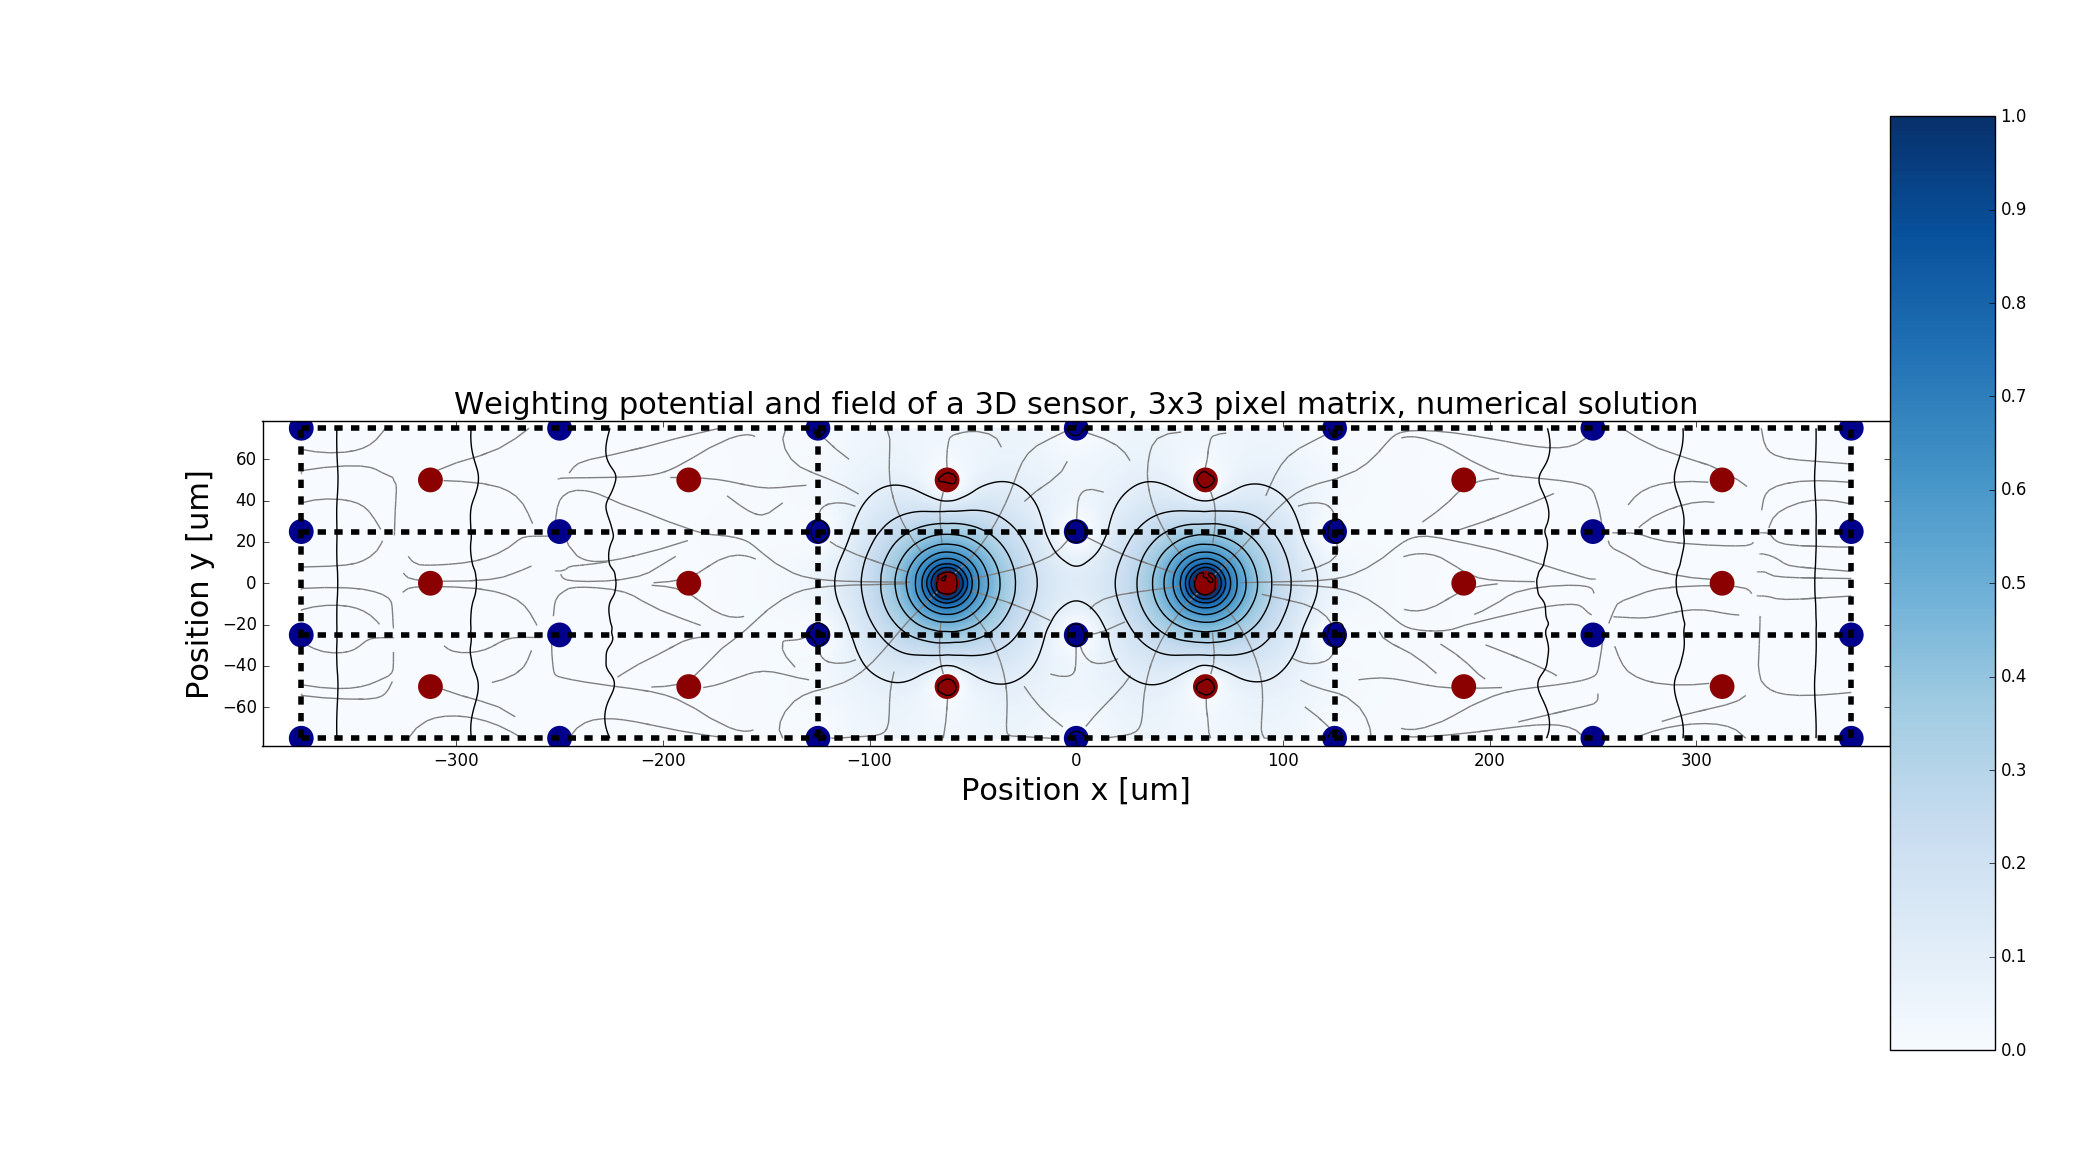
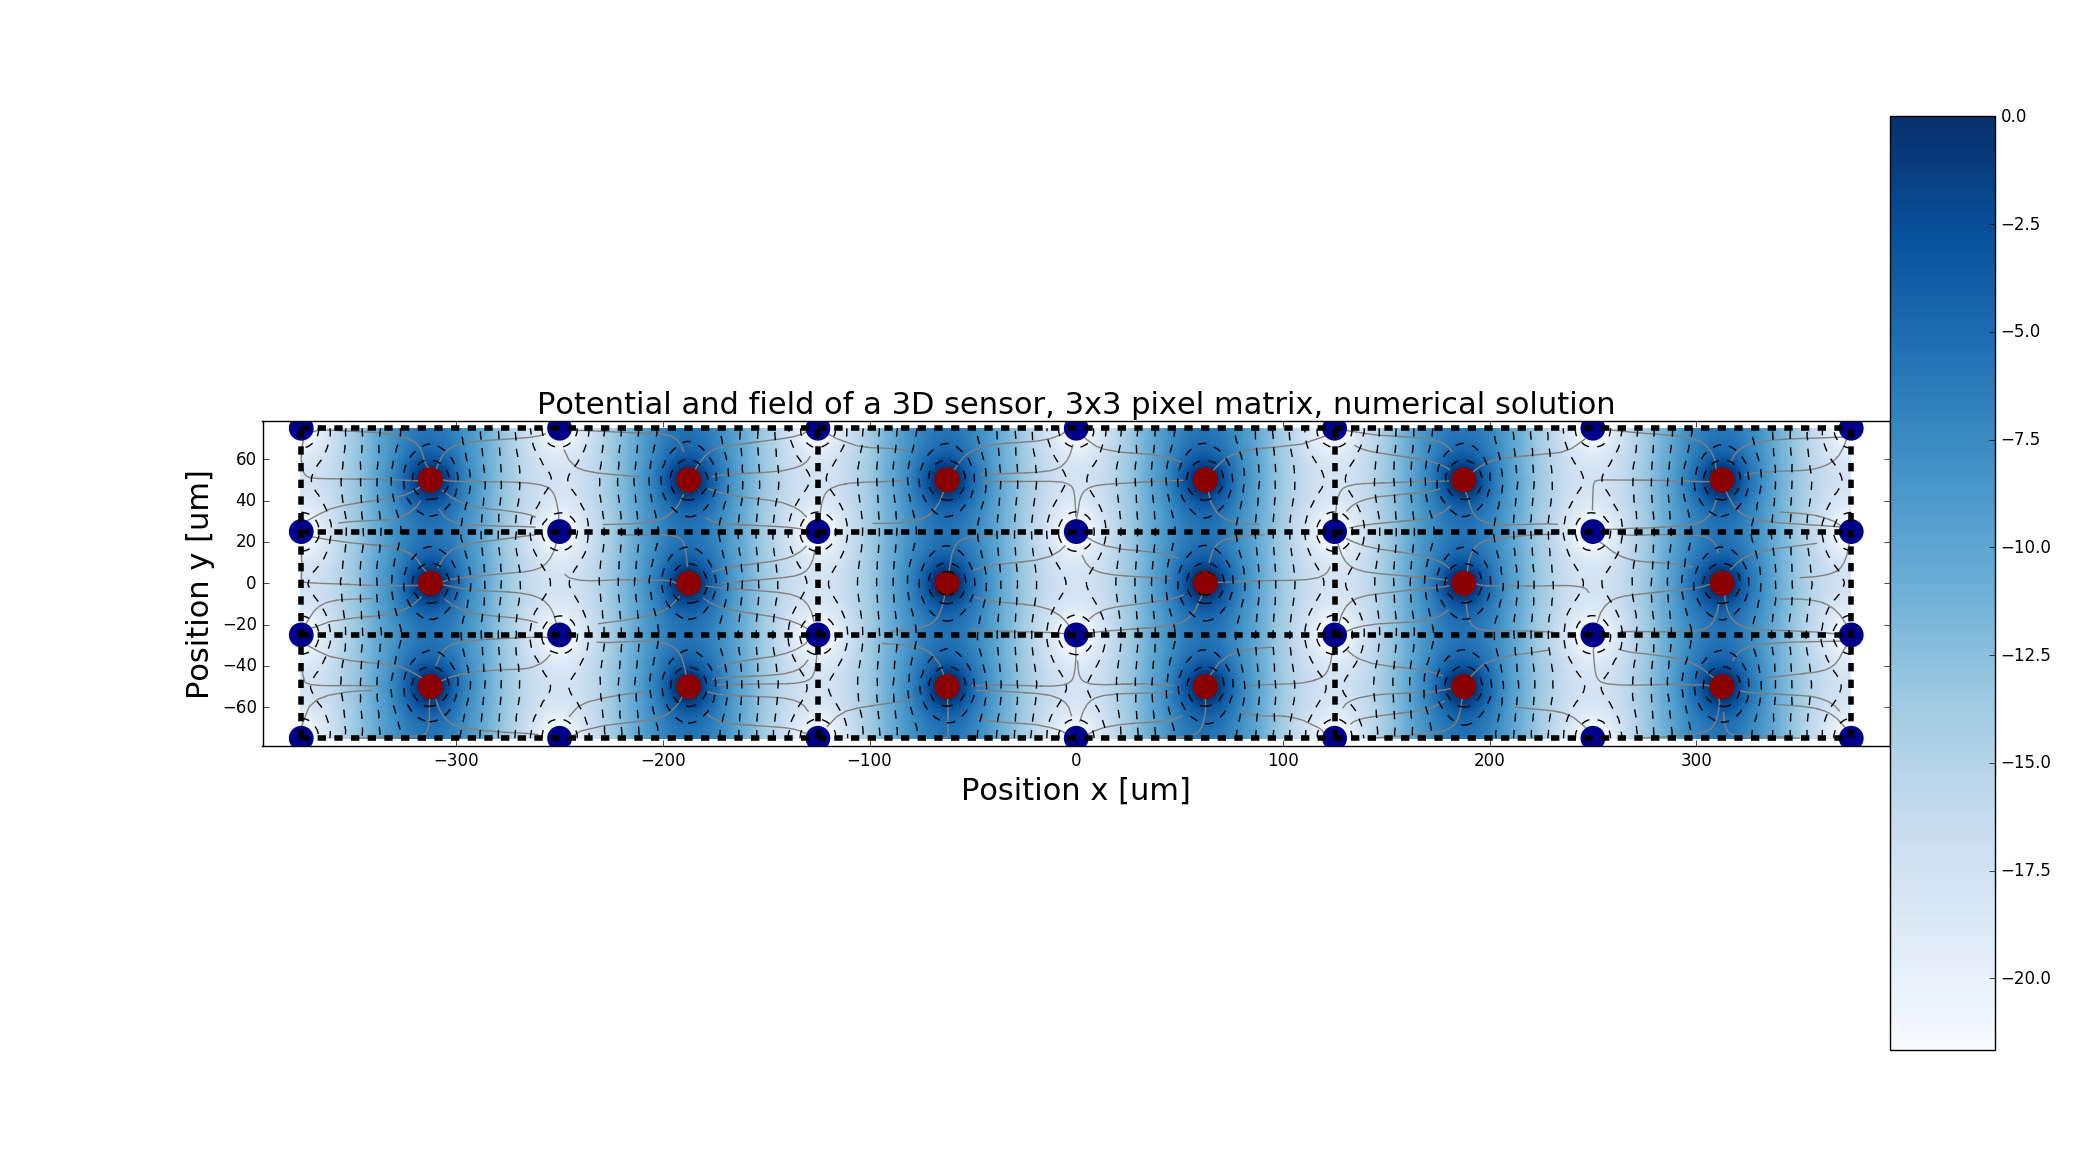
DOC

Changed region(s): [[0.1238, 0.3393, 0.8976, 0.6478], [0.9595, 0.5553, 0.9905, 0.5861]]

diff --git a/docs/Examples.rst b/docs/Examples.rst
@@ -22,12 +22,19 @@ Potential of a planar silicon sensor
 Weighting field of a 3D sensor
 =========================================
 .. automodule:: scarce.examples.sensor_3D_weighting
+.. image:: _static/Example_3D_w_numeric_3_3.png
+.. image:: _static/Example_3D_w_numeric_3_3_zoom.png
+.. image:: _static/Example_3D_w_numeric_1_1.png
+.. image:: _static/Example_3D_w_mesh.png
+
+The mesh size determines the quality of the numerical result and can be changed in the example.
+
+Potential of a 3D sensor
+=========================================
+.. automodule:: scarce.examples.sensor_3D
 .. image:: _static/Example_3D_numeric_3_3.png
 .. image:: _static/Example_3D_numeric_3_3_zoom.png
 .. image:: _static/Example_3D_numeric_1_1.png
-.. image:: _static/Example_3D_mesh.png
-
-The mesh size determines the quality of the numerical result and can be changed in the example.
 
 1D potential in a planar silicon sensor
 =========================================
